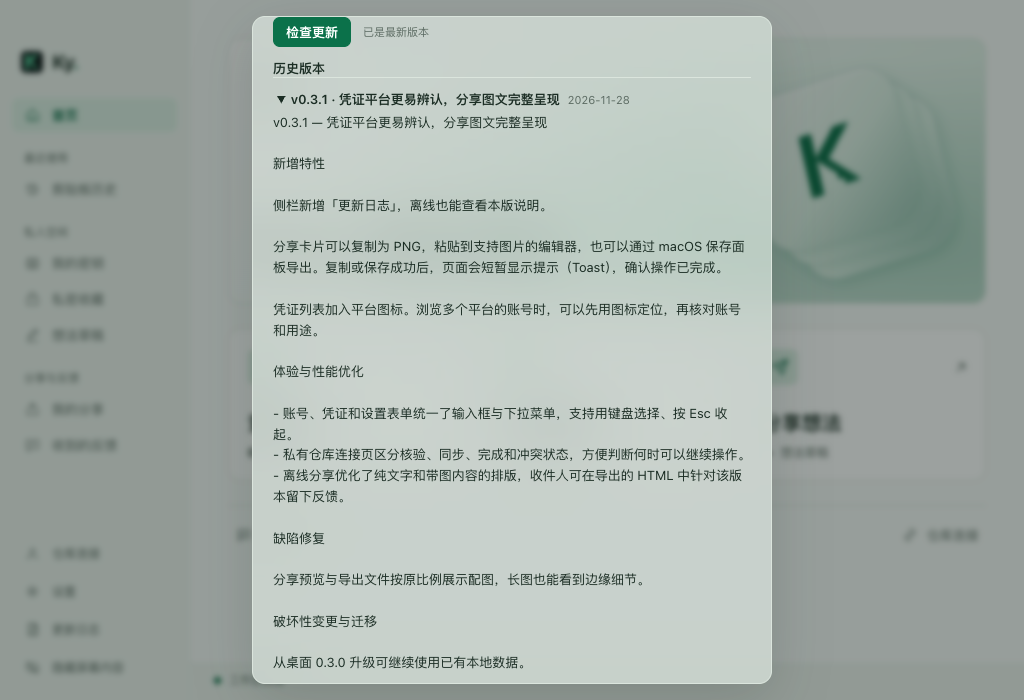
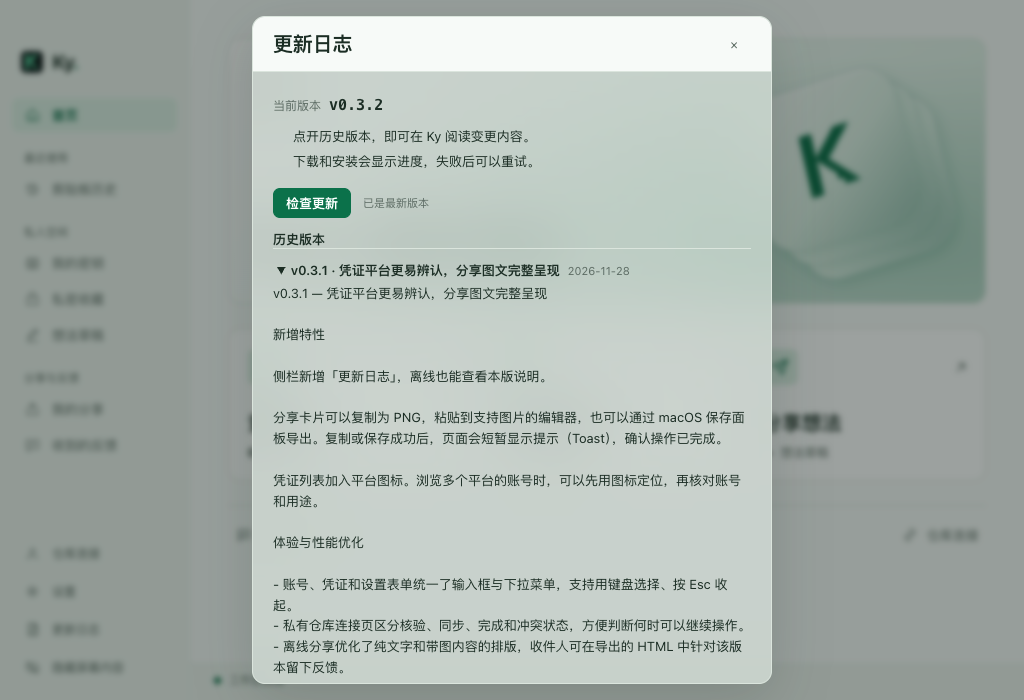
fix(desktop): 阅读长日志时保留标题与关闭入口
Agent: cli:codex
Task: ky-release-notes-flow
Run: 8376bfef-b28f-4bbe-a307-523874473695
Session: 01a22008-2a15-7473-912b-678d6774534d

diff --git a/desktop/ui/styles.css b/desktop/ui/styles.css
@@ -492,3 +492,10 @@ main[data-view=vault] .entry-meta { color: var(--muted); }
 .release-description { white-space: pre-wrap; line-height: 1.6; overflow-wrap: anywhere; }
 .release-notes { max-height: none; overflow: visible; }
 #update-progress { width: 100%; accent-color: var(--accent); }
+.about-dialog > .dialog-heading {
+  position: sticky; top: calc(0px - var(--s5)); z-index: 1;
+  margin: calc(0px - var(--s5)) calc(0px - var(--s5)) var(--s3);
+  padding: var(--s3) var(--s5);
+  background: var(--surface); border-bottom: 1px solid var(--line);
+}
+.release-row[open] { padding-bottom: var(--s3); }
